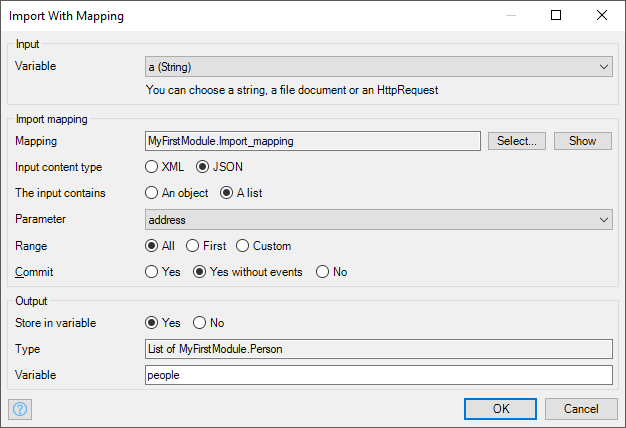
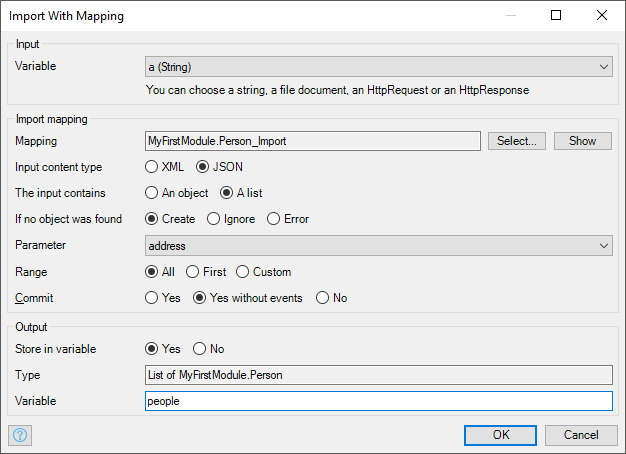
7.22 adds support for HttpResponse in the import mapping action

diff --git a/content/refguide/import-mapping-action.md b/content/refguide/import-mapping-action.md
@@ -19,11 +19,13 @@ With the Import Mapping action, you can import the data stored in an XML or JSON
 
 ### 2.1 Variable
 
-The input variable can either be a string, a file document, or an [HttpRequest](http-request-and-response-entities#http-request). The content of the file document or HttpRequest should be XML or JSON.
+The input variable can either be a string, a file document, an [HttpRequest](http-request-and-response-entities#http-request), or an [HttpRequest](http-request-and-response-entities#http-response). The content of the file document, HttpRequest, or HttpResponse should be XML or JSON.
 
 {{% alert type="info" %}}
 
 Support for HttpRequest was added in version 7.11.0. Earlier versions needed a string variable that contained the HttpRequest content.
+
+Support for HttpResponse was added in version 7.22.0. Earlier versions needed a string variable that contained the HttpResponse content.
 
 {{% /alert %}}
 
